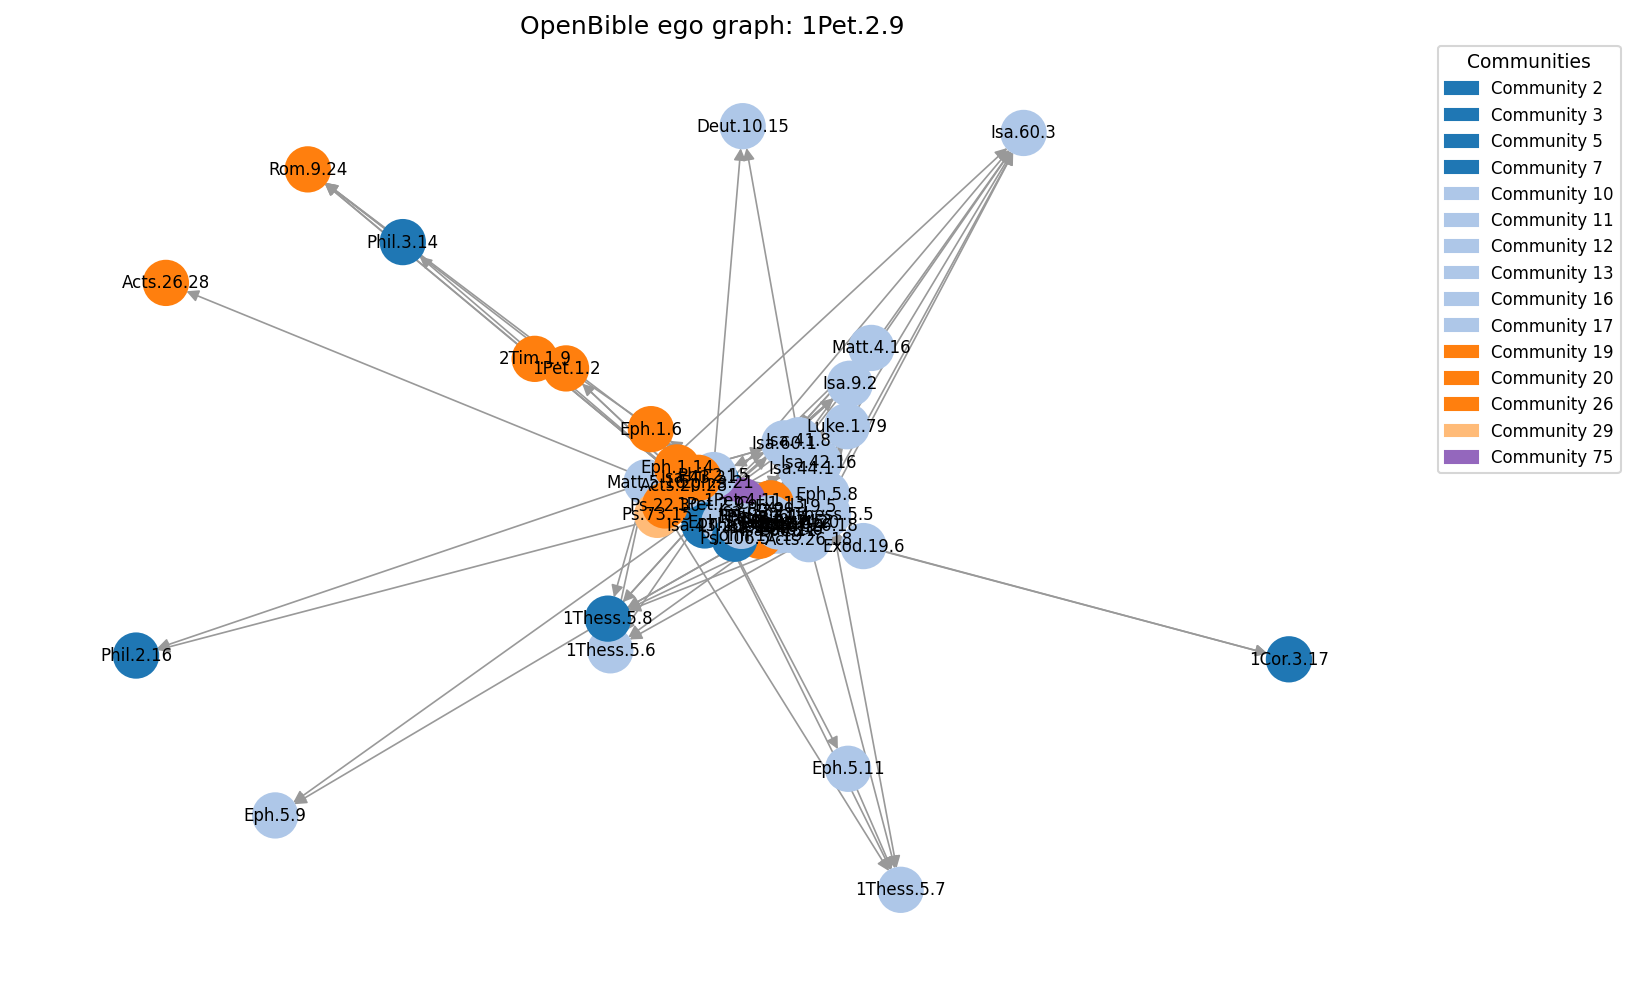
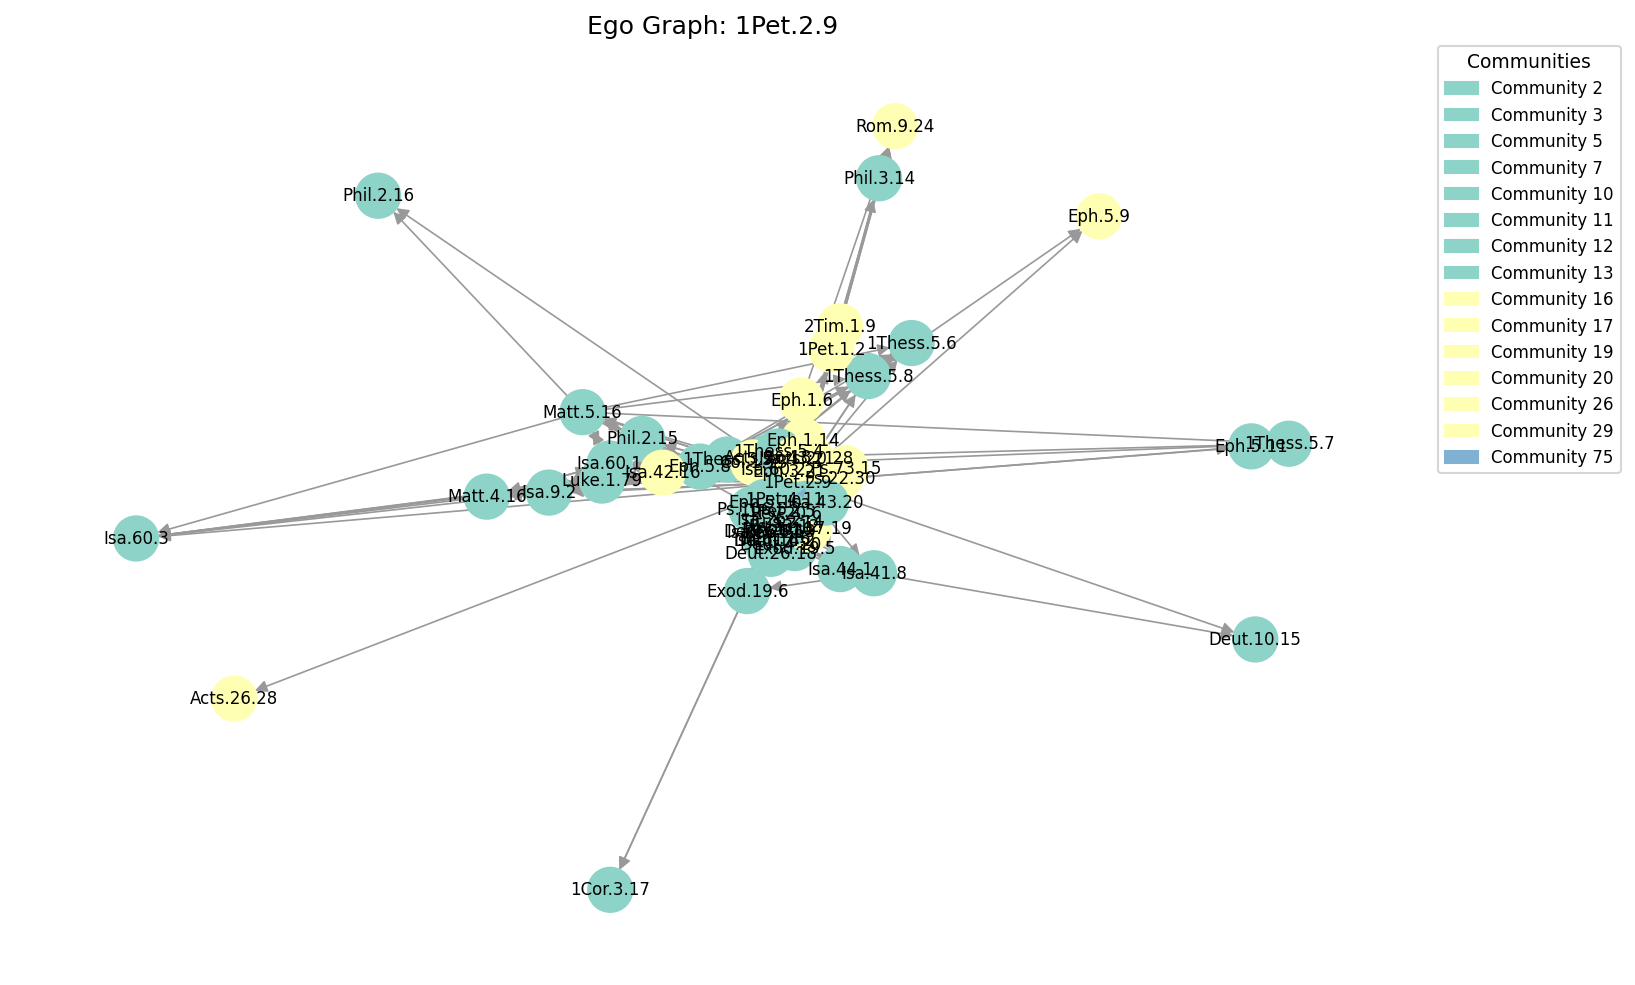
feat: imagem por comunidade

diff --git a/visualization/plot.py b/visualization/plot.py
@@ -6,26 +6,26 @@ import networkx as nx
 from math import sqrt
 
 HIGH_CONTRAST_COLORS = [
-    "#1f77b4",  # blue
-    "#d62728",  # red
-    "#2ca02c",  # green
-    "#9467bd",  # purple
-    "#ff7f0e",  # orange
-    "#17becf",  # cyan
-    "#bcbd22",  # olive
-    "#e377c2",  # pink
-    "#8c564b",  # brown
-    "#7f7f7f",  # gray
-    "#003f5c",
-    "#ffa600",
-    "#58508d",
-    "#ff6361",
-    "#00a676",
-    "#6a4c93",
-    "#1982c4",
-    "#ffca3a",
-    "#8ac926",
-    "#c1121f",
+    "#4E79A7",  # blue
+    "#F28E2B",  # orange
+    "#59A14F",  # green
+    "#E15759",  # red
+    "#76B7B2",  # teal
+    "#EDC948",  # yellow
+    "#B07AA1",  # purple
+    "#FF9DA7",  # pink
+    "#9C755F",  # brown
+    "#BAB0AC",  # gray
+    "#86BCB6",
+    "#F1CE63",
+    "#8CD17D",
+    "#D4A6C8",
+    "#FFBE7D",
+    "#A0CBE8",
+    "#FFB5A7",
+    "#CFCFCF",
+    "#B6992D",
+    "#F4A261",
 ]
 
 
@@ -144,7 +144,7 @@ def _community_colormap(partition: dict[str, int]):
     if max_community_id < len(HIGH_CONTRAST_COLORS):
         return mcolors.ListedColormap(HIGH_CONTRAST_COLORS[: max_community_id + 1])
 
-    return cm.get_cmap("nipy_spectral", max_community_id + 1)
+    return cm.get_cmap("Set3", max_community_id + 1)
 
 
 def _repulsion_k(G: nx.DiGraph, multiplier: float) -> float: